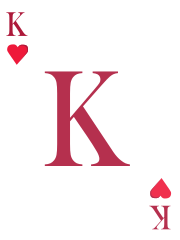
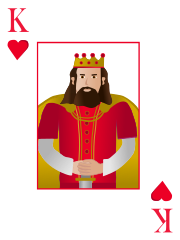
new royalty cards

diff --git a/cardGameJavascript/portfolioGameFinal.js b/cardGameJavascript/portfolioGameFinal.js
@@ -4122,6 +4122,7 @@ function EvaluateHands() {
   //console.log(cocktailPositiveScore);
   //console.log("cocktailNegativeScore333333333333333333333333");
   //console.log(cocktailNegativeScore);
+  //upload this
 
   let finalBonus = bonusScore.reduce((a, c) => a + c);
   let finalNegative = cocktailNegativeScore.reduce((a, c) => a + c);

diff --git a/index.html b/index.html
@@ -8,7 +8,7 @@
     <link rel="stylesheet" href="cardGameCSS/portfolioGameFinal.css">
     <link rel="stylesheet" href="https://fonts.googleapis.com/css?family=Lobster|Open+Sans" />
 
-
+<!--upload this-->
 </head>
 
 <body>

diff --git a/cardGameCSS/portfolioGameFinal.css b/cardGameCSS/portfolioGameFinal.css
@@ -5,7 +5,9 @@ html {
     box-sizing: border-box;
 }
 
-
+.uploadThis{
+    display:block
+}
 
 .card1 {
     display:inline-block;
